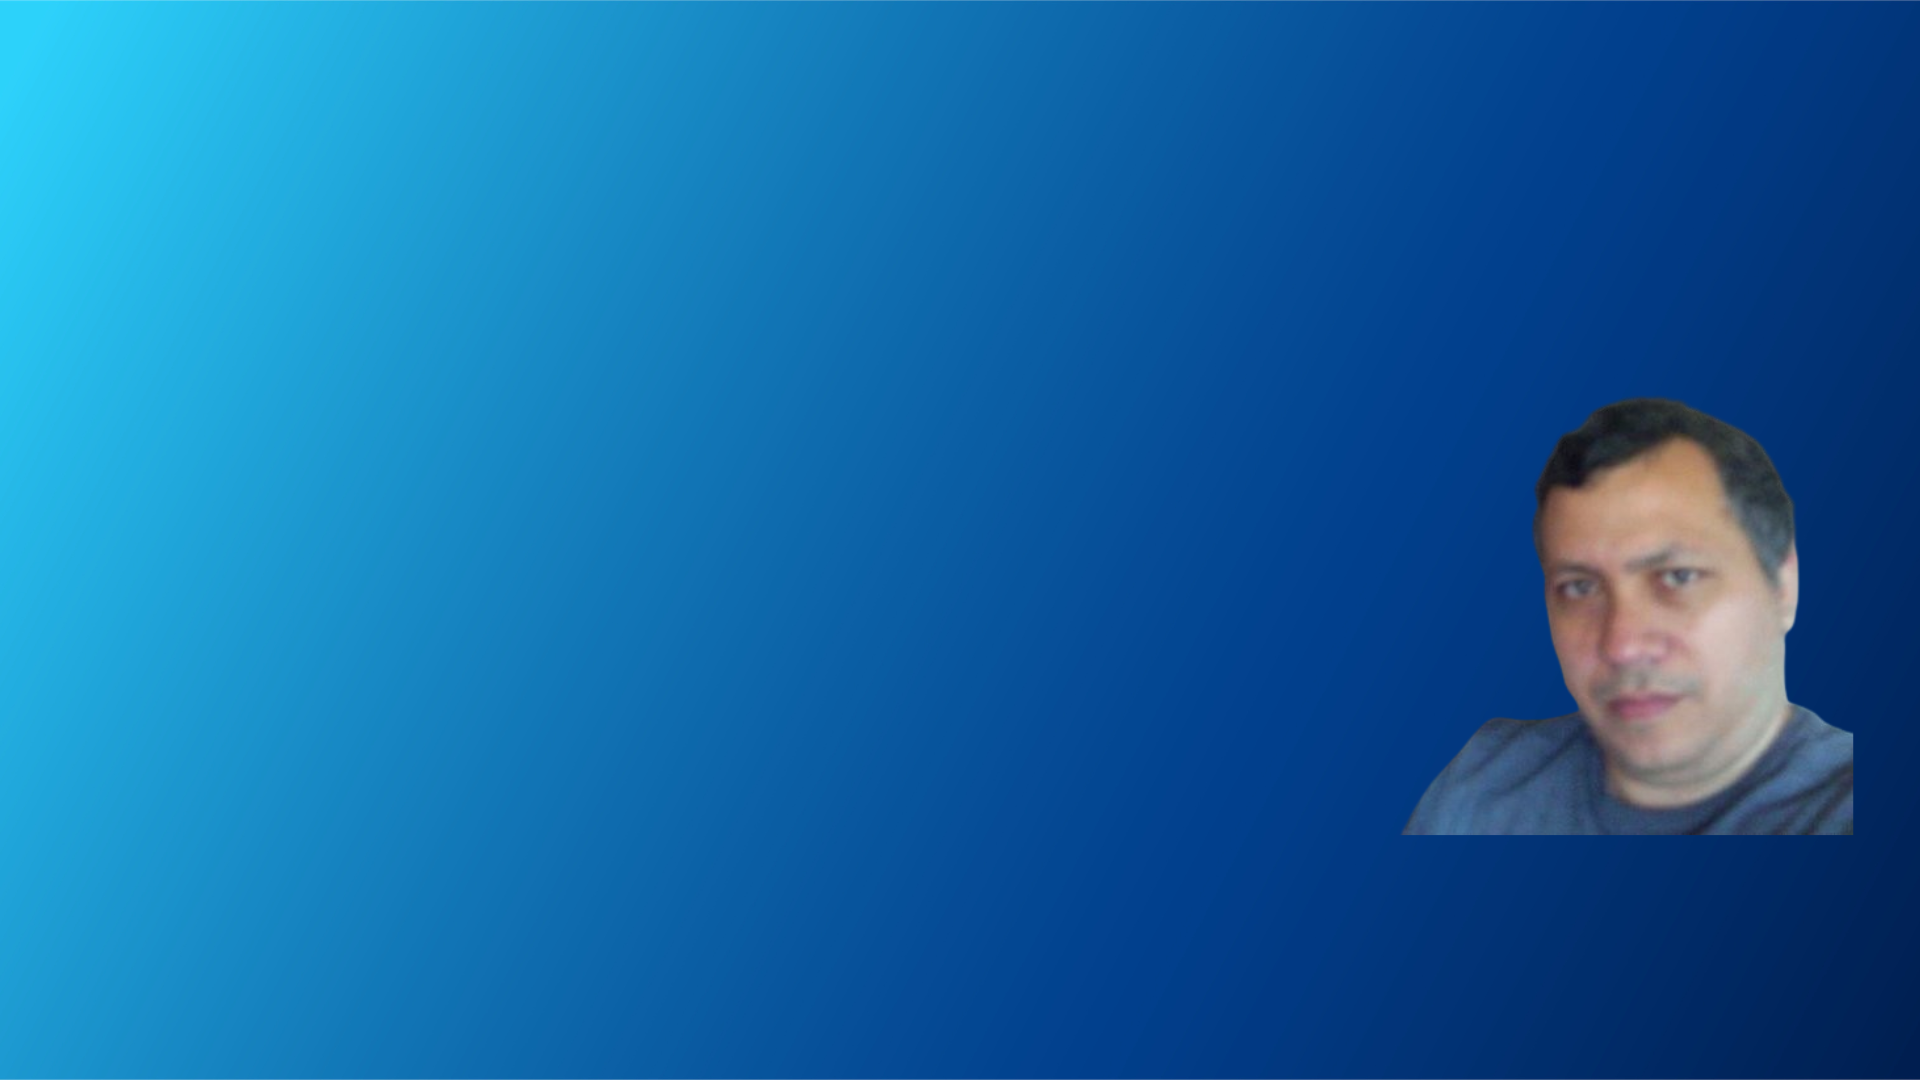
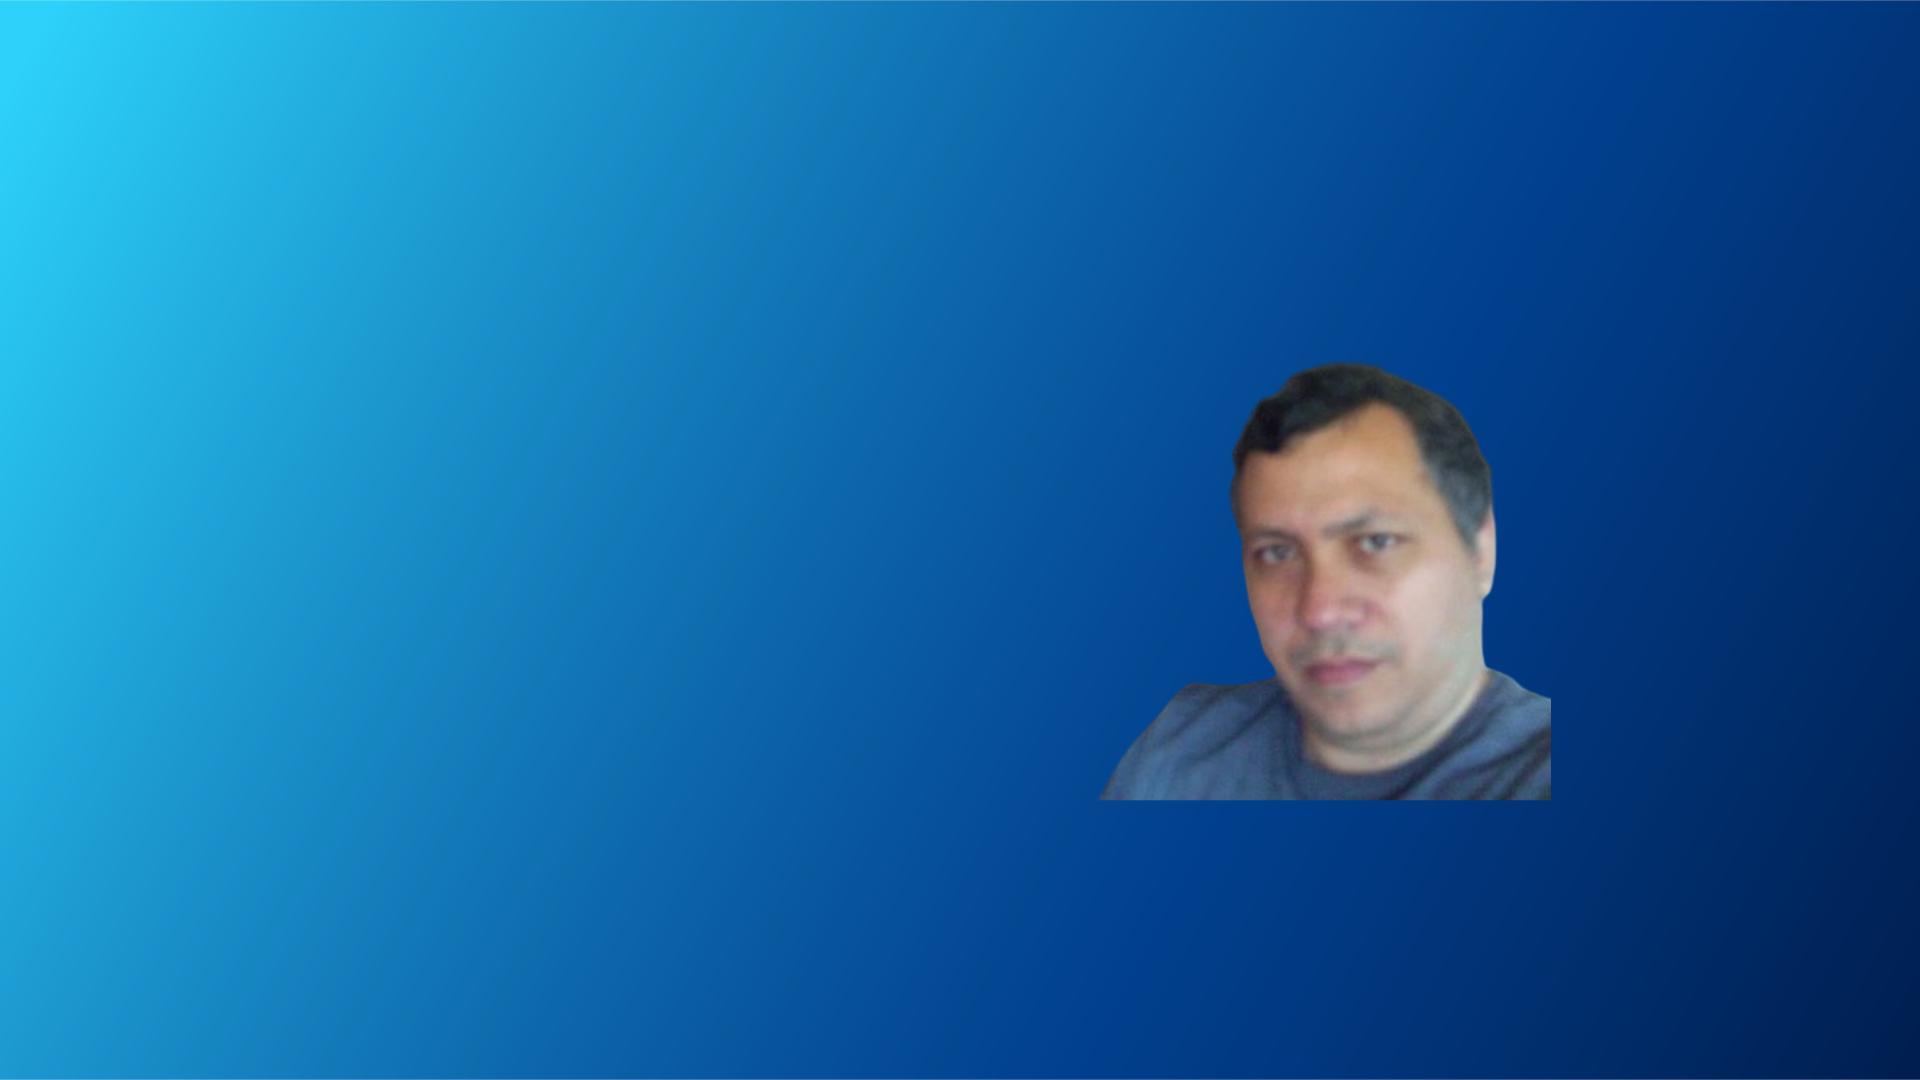
Added styles for the home section and home content

Changed region(s): [[0.5625, 0.3361, 0.9688, 0.7944]]

diff --git a/styles.css b/styles.css
@@ -43,3 +43,32 @@ body {
 .navbar a:hover {
     color: #0ef;
 }
+
+.home {
+    position: relative;
+    width: 100%;
+    justify-content: space-between;
+    height: 100vh;
+    background: url(./assets/Segundo.png) no-repeat;
+    background-size: cover;
+    background-position: center;
+    display: flex;
+    align-items: center;
+    padding: 70px 5% 0;
+}
+
+.home-content {
+    max-width: 600px;
+}
+
+.home-content h3 {
+    font-size: 16px;
+    font-weight: 700;
+}
+
+.home-content h1 {
+    font-size: 56px;
+    font-weight: 700;
+    margin: -3px 0;
+}
+
